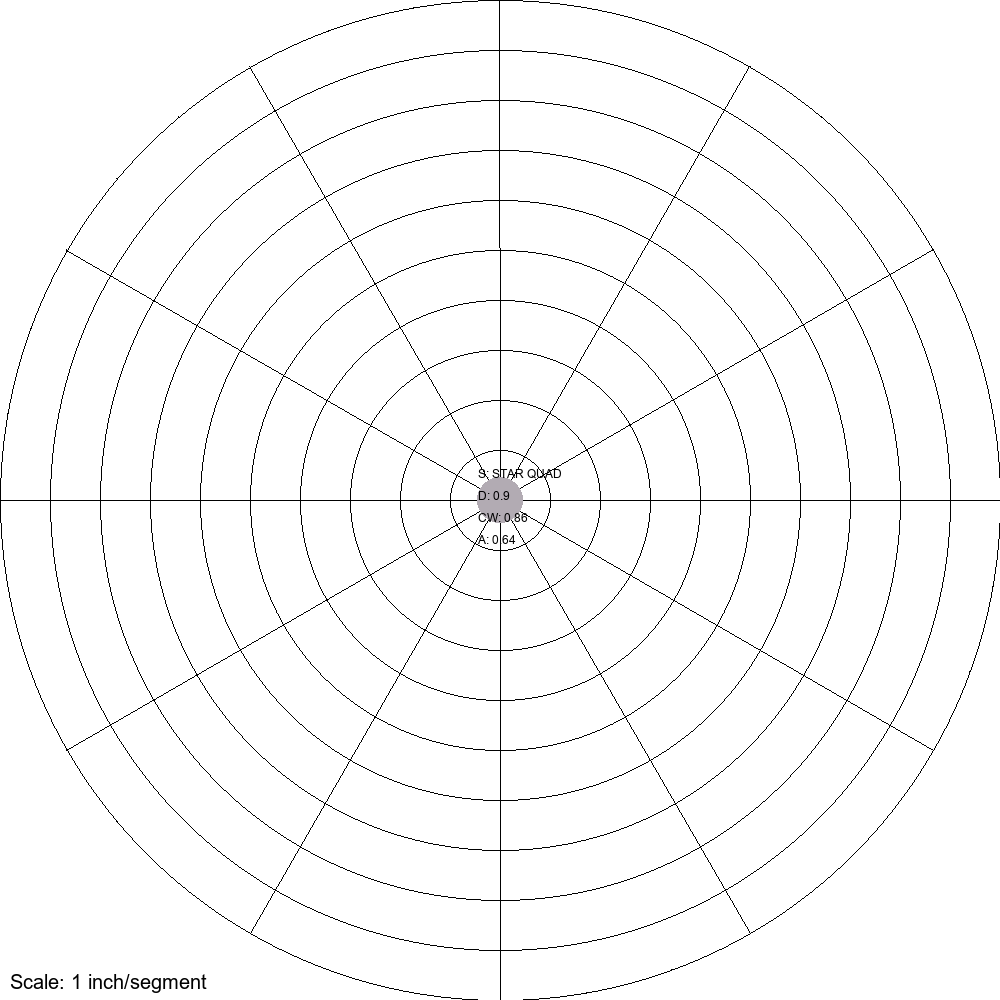
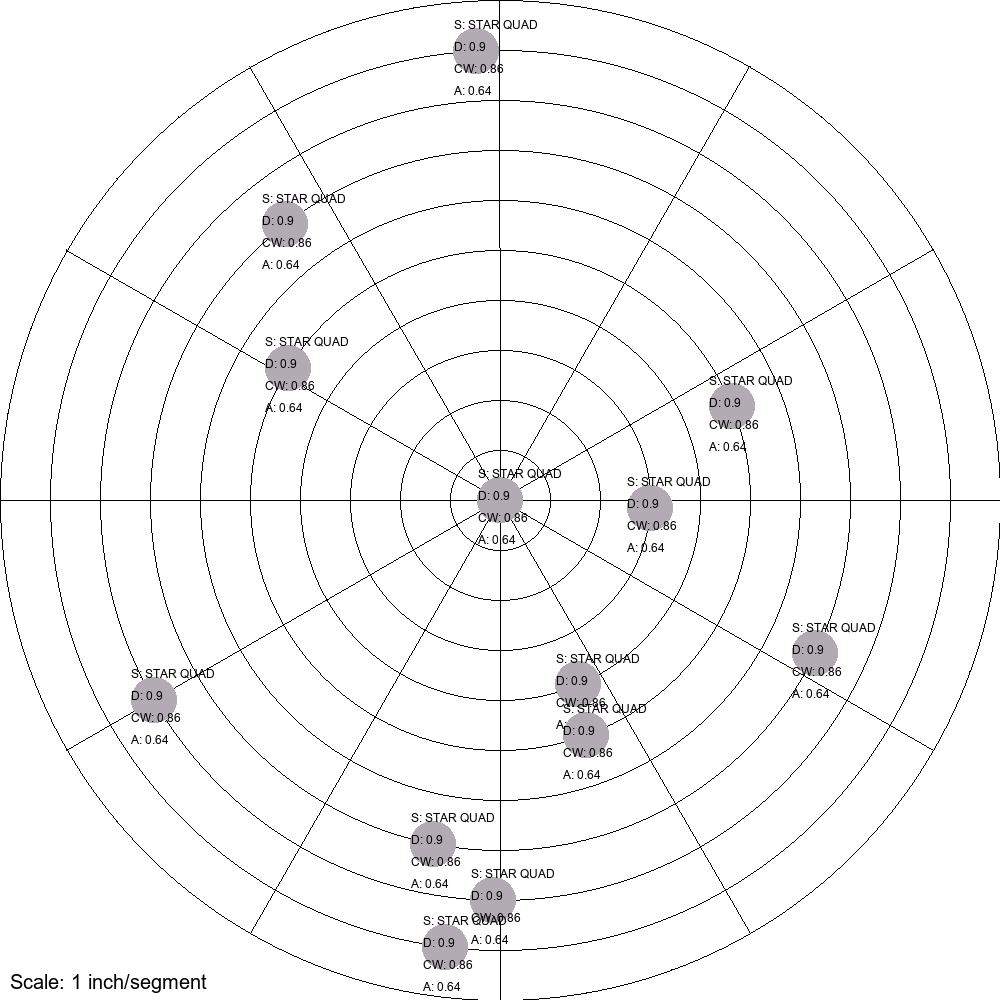
inti comt

diff --git a/main.py b/main.py
@@ -3,6 +3,7 @@ from user_interface import *
 from messenger_algorithm import *
 from cable_classes import *
 from visualizer import get_cable_pull_sheet
+import random
 
 get_cable_pull_sheet()
 get_cable_sizes()      # Repository of all cables and their parameters
@@ -16,8 +17,9 @@ stationing_sections()  # List cables between each section of stationing
 # print(cable_list[5].cable_size)
 # print("Number of cables in queue:", len(draw_queue))
 
-print(cable_list[0].cable_size)
-add_to_draw_queue(cable_list[0], 0, 0)
+for i in range(random.randint(0, 22)):
+    print(cable_list[i].cable_size)
+    add_to_draw_queue(cable_list[i], random.randint(0, 10), random.randint(0, 360))
 generate_cable_image(draw_queue)
 
 # Generate the final image with all the cables to be drawn
